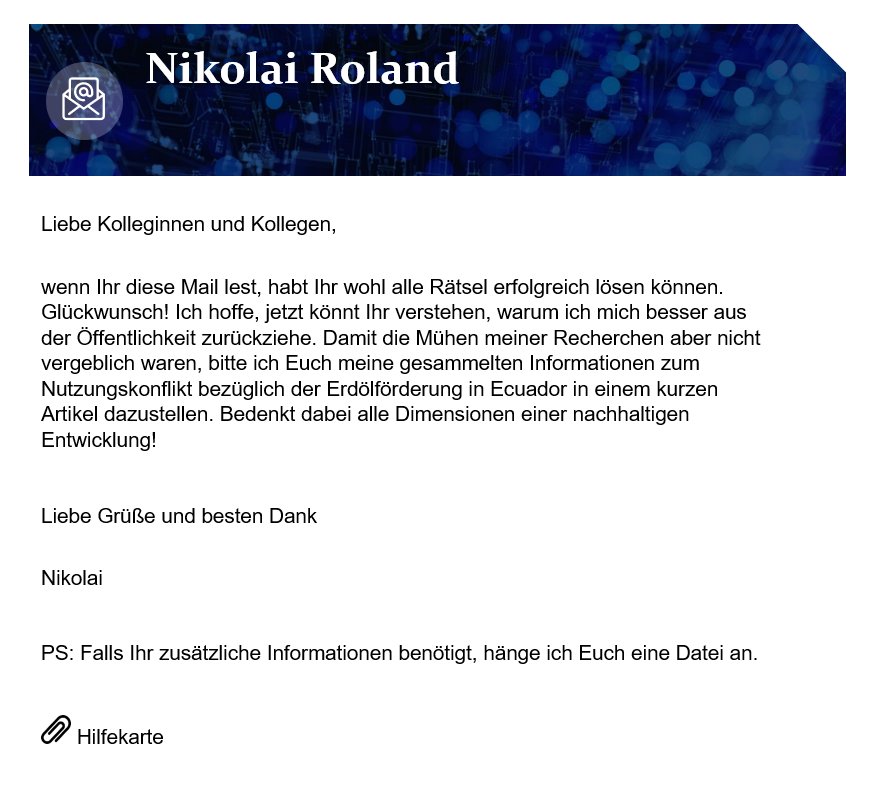
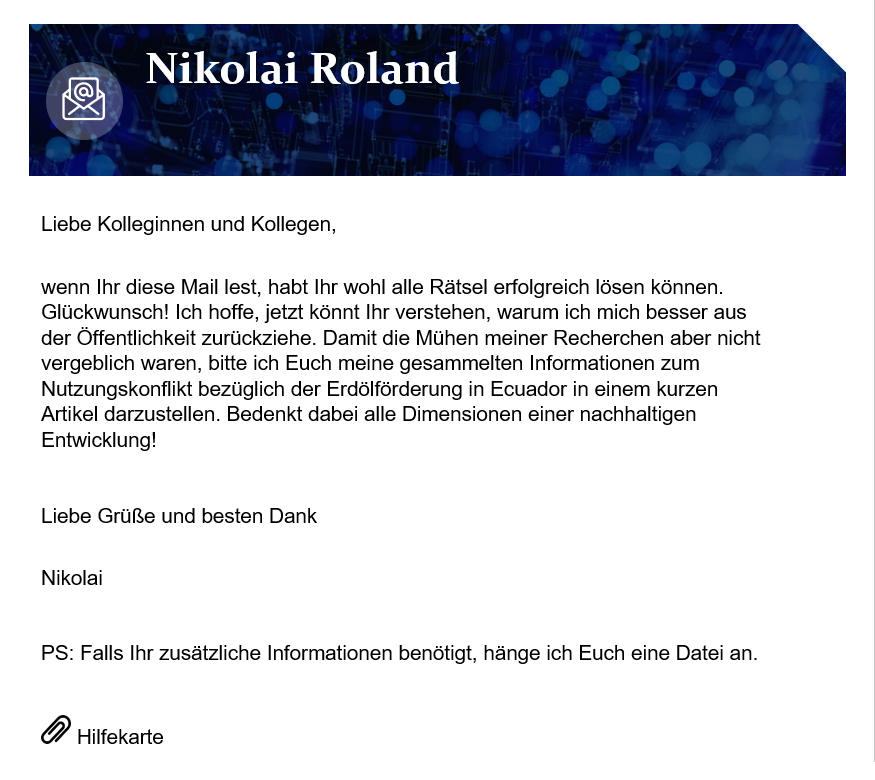
Fixes typo

diff --git a/lib/dialogs/endscreen_mail_dialog.dart b/lib/dialogs/endscreen_mail_dialog.dart
@@ -43,7 +43,7 @@ class EndScreenMailDialog extends HookWidget {
           ),
           Positioned(
             top: 120,
-            left: 170,
+            left: 150,
             child: Text(
               context.read(endDate).state,
               style: Theme.of(context)

diff --git a/lib/main.dart b/lib/main.dart
@@ -21,7 +21,7 @@ class MyApp extends StatelessWidget {
       theme: ThemeData(
         primarySwatch: Colors.blueGrey,
       ),
-      home: OfficeDoorScreen(),
+      home: EndScreen(),
     );
   }
 }
